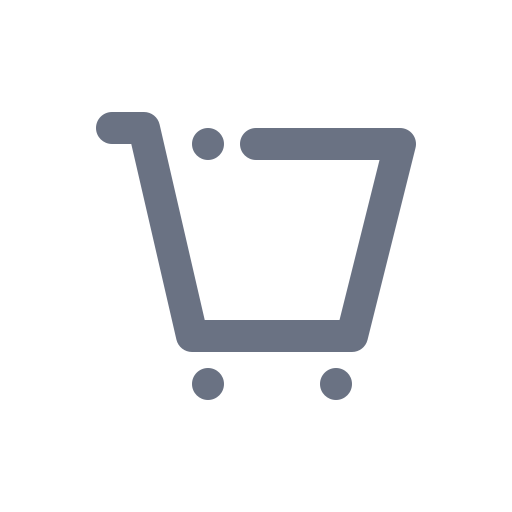
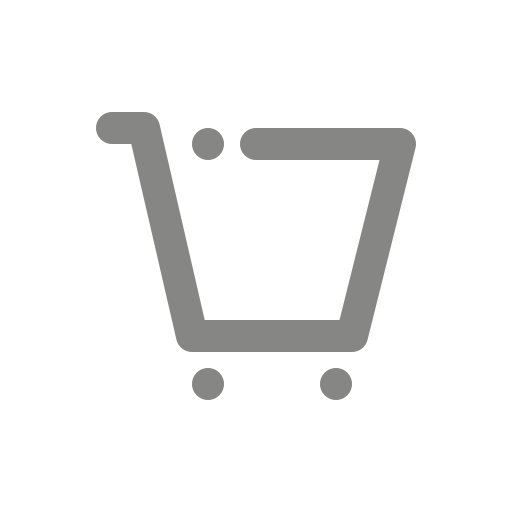
chore: cart color change

diff --git a/src/components/Header.js b/src/components/Header.js
@@ -67,7 +67,7 @@ const CartWrapper = styled.div`
         animation: ${Fadeout} 300ms;
     `}
     right: 0px;
-    color: #6b7282;
+    color: #868785;
 `;
 
 
@@ -89,7 +89,7 @@ const CancleButton = styled.div`
     background-size: contain;
     background-repeat: no-repeat;
     background-position: center;
-    opacity: 0.4;
+    opacity: 0.5;
     &:hover{
         opacity: 0.8;
     }
